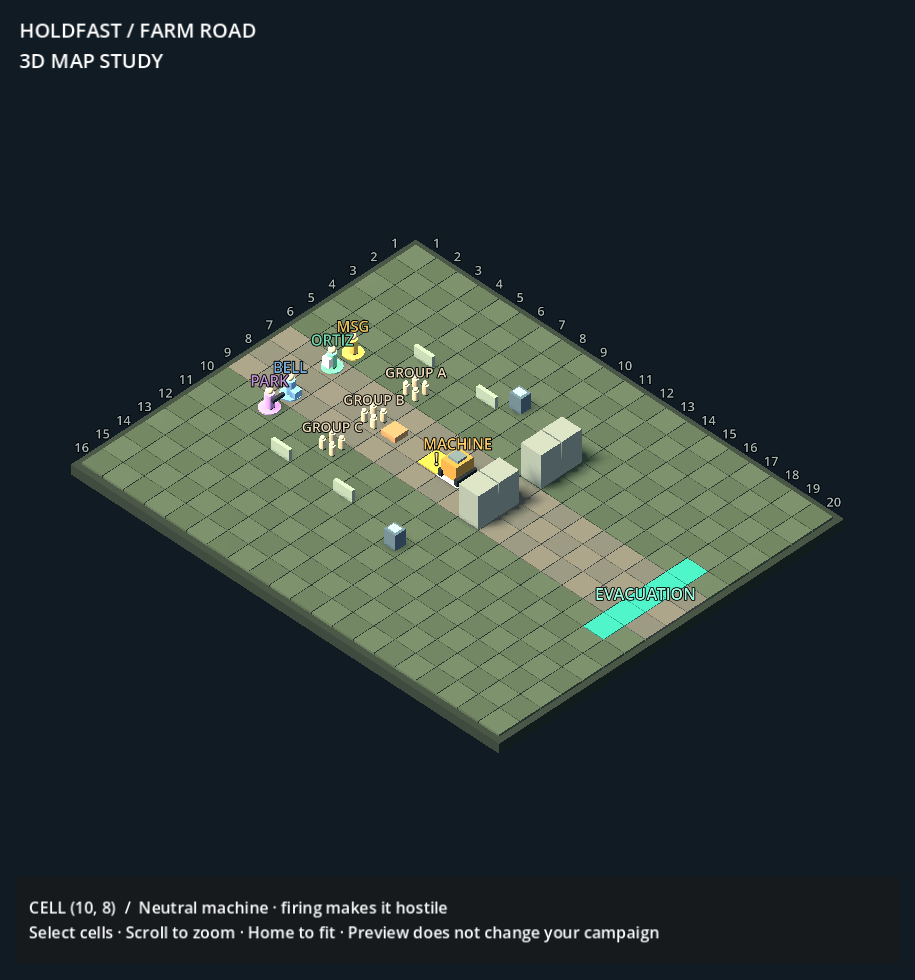
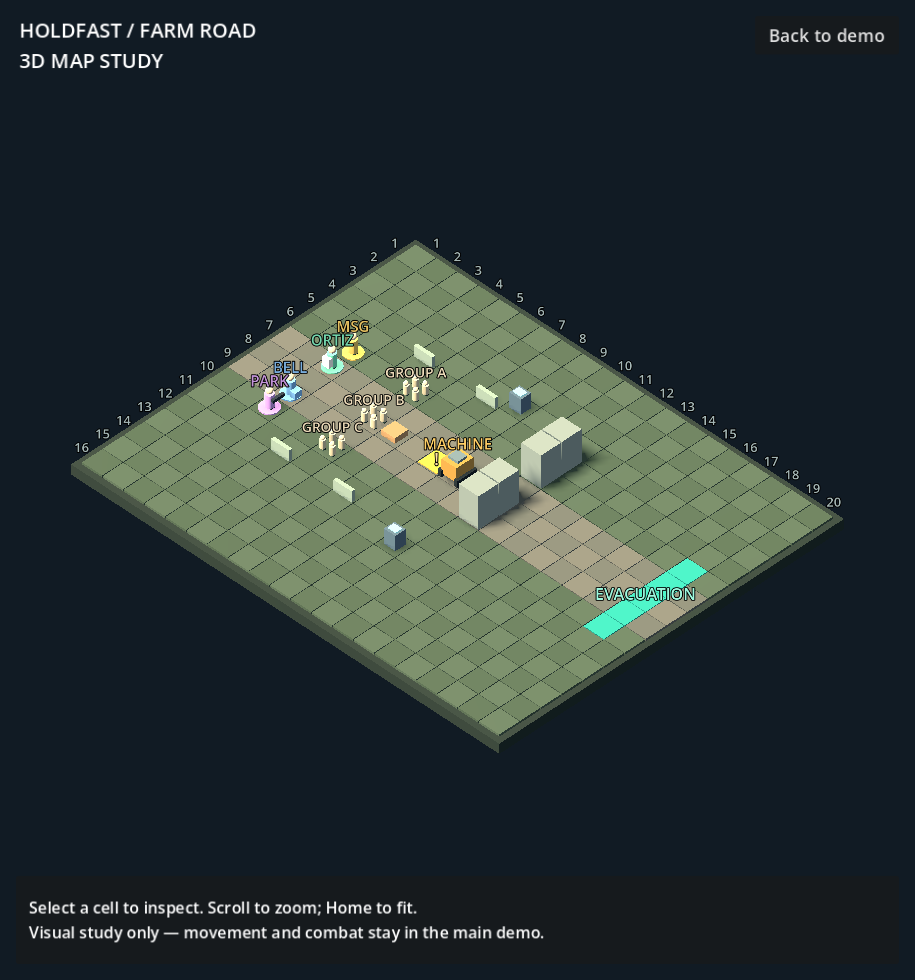
Open 3D preview from demo with state-preserving return

Changed region(s): [[0.0306, 0.9184, 0.7344, 0.9796], [0.8262, 0.0306, 0.9792, 0.0612]]

diff --git a/docs/presentation-plan.md b/docs/presentation-plan.md
@@ -4,7 +4,7 @@ Direction: angled orthographic 3D, inspired by the requested XCOM/Shadowrun pres
 
 ## P1 — map and readability study: complete
 
-Open `holdfast/map_preview_3d.tscn` and run the current scene (F6). F5 still runs the existing playable demo.
+Run the normal demo and click **3D Preview** at the upper right. The encounter is hidden and paused; **Back to demo** restores the same scene and unsaved state. This avoids dependence on a function-key shortcut. Direct Run Current Scene on `map_preview_3d.tscn` remains supported. F5 still runs the existing playable demo.
 
 The preview reads the existing Farm Road resource: 20×16 cells, walls, cover edges, fixtures, spawns and evacuation area. Primitive models distinguish four squad roles, civilian groups of four, and the tracked neutral machine. A pulsing orange cell marks its authored next patrol step. Clicking cells shows coordinates and context; scroll zooms and Home refits. The inspector stays screen-fixed. The existing 2D magnifier is hidden only while this preview is active.
 
@@ -21,3 +21,5 @@ Bind the view to a detached display snapshot from the standalone controller. Rou
 Animate movement and attacks from resolved events, distinguish neutral/hostile machine posture, and show impact/shot warnings. Keep the full encounter loop and fixed-screen controls readable before replacing the main scene. Re-run recorded routes and do a focused visual/user playtest.
 
 The prototype remains separate until those criteria pass. Existing magnification and the playable demo are unchanged.
+
+Launch follow-up: automated and rendered tests exercise the Preview/Back buttons, duplicate-launch guard, exact encounter-state preservation and magnifier input restoration. The original F6 failure was not reproduced; no keyboard-configuration cause is claimed.

diff --git a/README.md b/README.md
@@ -14,7 +14,7 @@ The active encounter now uses `encounter_controller.gd` directly under Node2D, t
 
 ## 3D presentation preview
 
-Open `holdfast/map_preview_3d.tscn` and press **F6** (Run Current Scene). This separate angled 3D study supports cell inspection, scroll zoom, and Home to fit. It does not run combat or change saves. **F5** still launches the existing playable demo. See the [presentation plan](docs/presentation-plan.md).
+Run the demo normally and click **3D Preview** in the upper-right corner. **Back to demo** restores the same encounter without reloading it. Alternatively, open `holdfast/map_preview_3d.tscn` and use Godot’s Run Current Scene control. This separate angled 3D study supports cell inspection, scroll zoom, and Home to fit. It does not run combat or change saves. **F5** still launches the existing playable demo. See the [presentation plan](docs/presentation-plan.md).
 
 ## Readability
 
